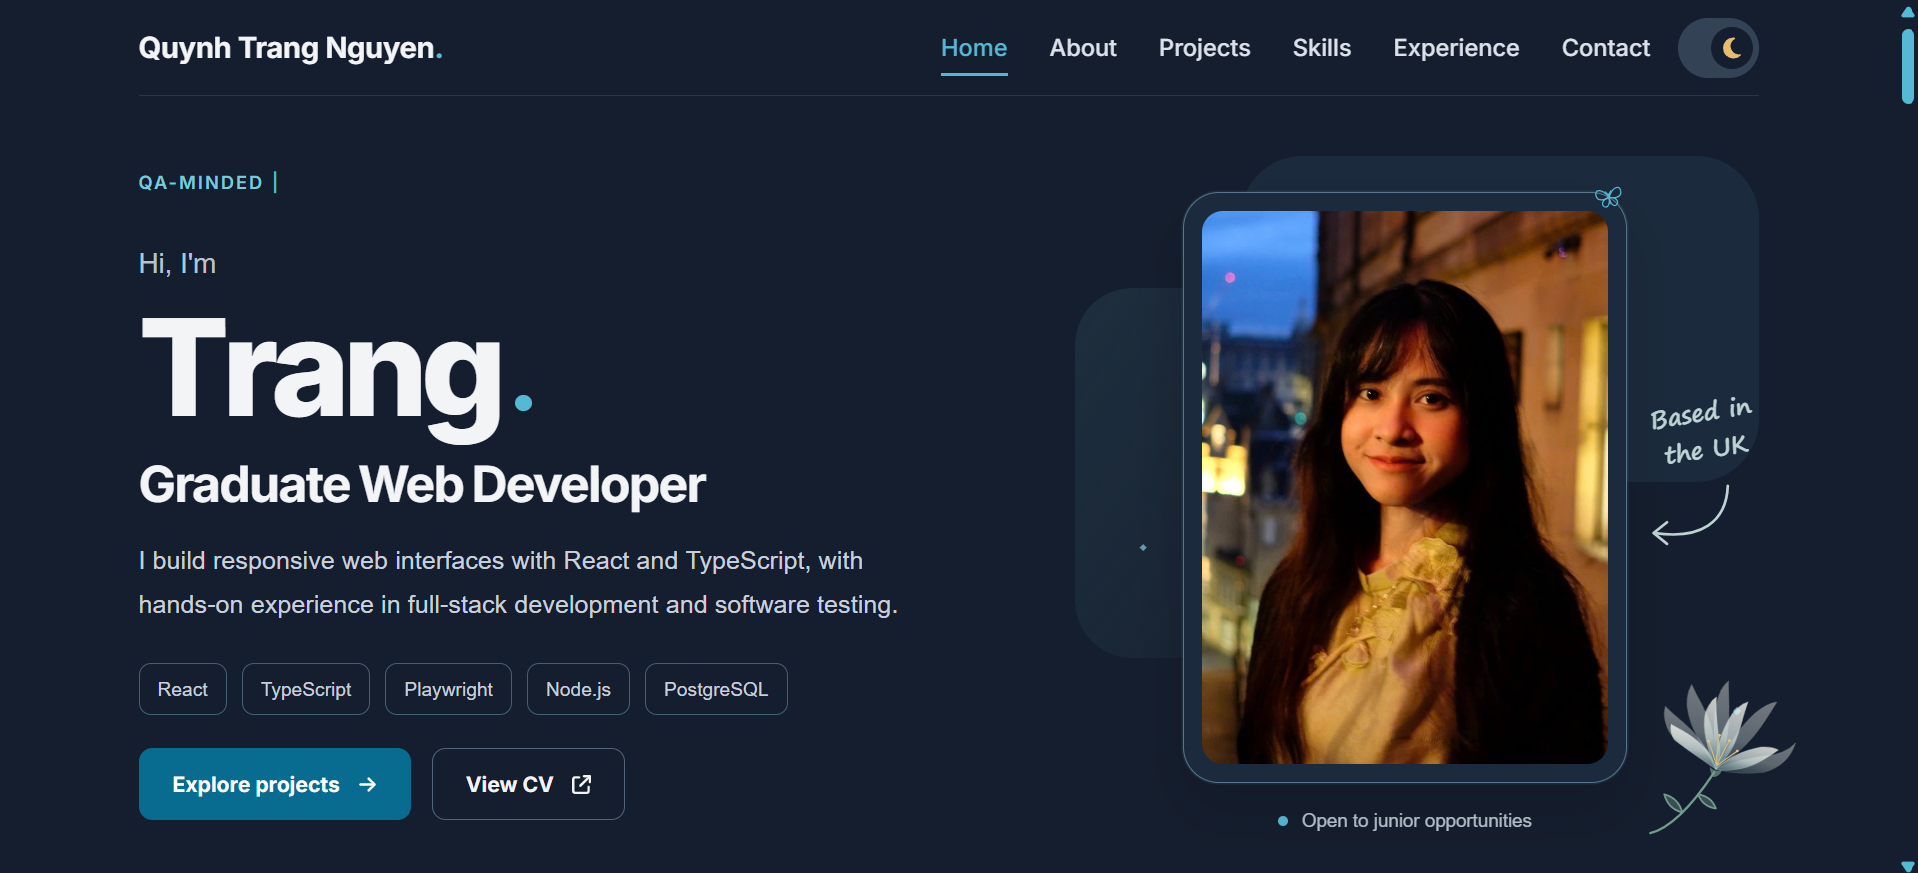
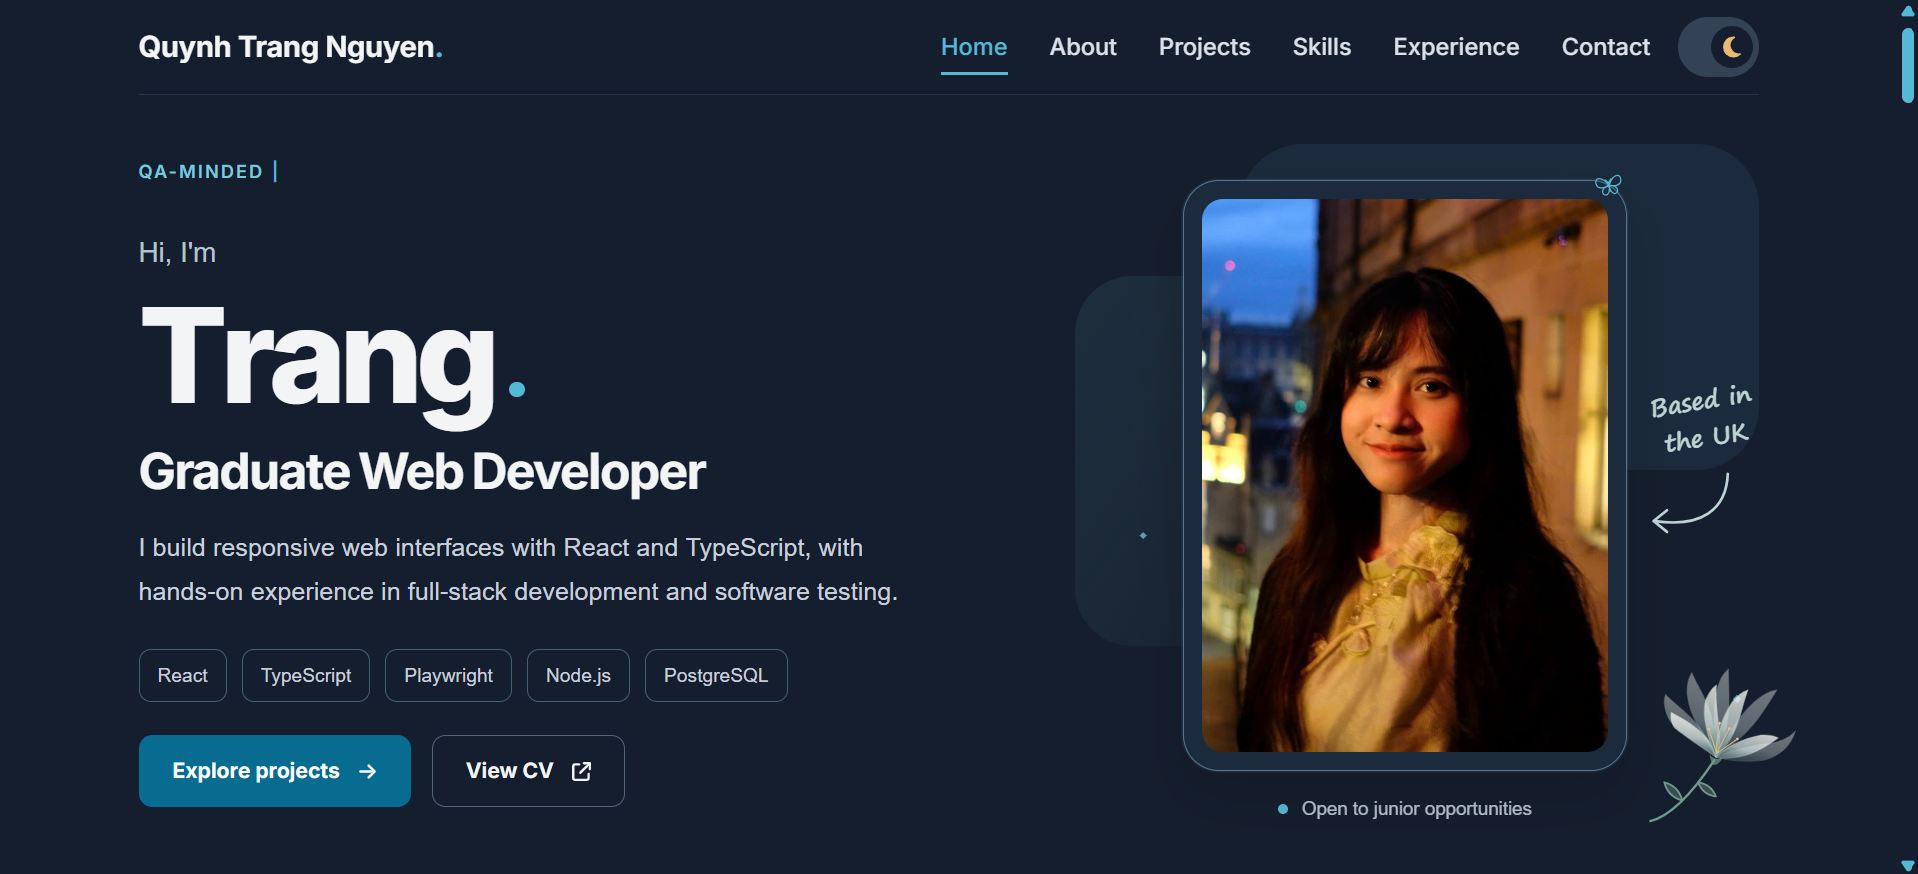
feat: enhance project image previews and literary note

diff --git a/src/components/LiteraryNote.css b/src/components/LiteraryNote.css
@@ -1,5 +1,5 @@
-/* Literary note — restrained paper finish and soft shadow. */
 .literary-note {
+  position: relative;
   box-sizing: border-box;
   width: min(100%, 270px);
   margin: 0;
@@ -16,9 +16,32 @@
   transform: rotate(1deg);
 }
 
+.literary-note__fold {
+  position: absolute;
+  top: 0;
+  right: 0;
+  display: grid;
+  place-items: center;
+  width: 36px;
+  height: 36px;
+  padding: 0 0 9px 9px;
+  border: 0;
+  border-bottom-left-radius: 6px;
+  background: linear-gradient(225deg, #e3d097 49%, #c9b782 50%, #f2e4ad 53%);
+  color: #62543d;
+  font: 600 15px/1 Georgia, serif;
+  cursor: pointer;
+}
+
+.literary-note__fold:focus-visible {
+  outline: 2px solid #665943;
+  outline-offset: 3px;
+}
+
 .literary-note__eyebrow {
   display: block;
   margin-bottom: 20px;
+  padding-right: 15px;
   color: #75664c;
   font-size: 0.65rem;
   font-weight: 600;
@@ -51,15 +74,41 @@
 
 .literary-note__source cite { font-style: italic; }
 
+.literary-note__reveal {
+  margin-top: 16px;
+  padding-top: 15px;
+  border-top: 1px dashed rgb(91 76 48 / 28%);
+}
+
+.literary-note__reveal[hidden] { display: none; }
+
+.literary-note__reveal-label {
+  display: block;
+  margin-bottom: 8px;
+  color: #75664c;
+  font-size: 0.59rem;
+  font-weight: 600;
+  letter-spacing: 0.13em;
+}
+
+.literary-note__reveal p {
+  margin: 0;
+  font-family: Georgia, 'Times New Roman', serif;
+  font-size: 0.92rem;
+  font-style: italic;
+  line-height: 1.5;
+}
+
 @media (prefers-reduced-motion: no-preference) {
   .literary-note {
     transition: transform 220ms ease, box-shadow 220ms ease;
   }
-  .literary-note:hover {
+
+  .literary-note:hover,
+  .literary-note--open {
     transform: rotate(0deg) translateY(-2px);
     box-shadow:
       0 3px 7px rgb(40 35 25 / 9%),
       0 10px 20px rgb(40 35 25 / 13%);
   }
 }
-

diff --git a/src/components/LiteraryNote.jsx b/src/components/LiteraryNote.jsx
@@ -1,22 +1,40 @@
+import { useId, useState } from 'react'
 import './LiteraryNote.css'
 
 function LiteraryNote() {
+  const [isOpen, setIsOpen] = useState(false)
+  const noteId = useId()
+
   return (
-    <figure className="literary-note">
-      <span className="literary-note__eyebrow">
-        IN THE MARGINS
-      </span>
+    <figure className={`literary-note${isOpen ? ' literary-note--open' : ''}`}>
+      <button
+        className="literary-note__fold"
+        type="button"
+        aria-label={isOpen ? 'Fold the note' : 'Unfold the note'}
+        aria-expanded={isOpen}
+        aria-controls={noteId}
+        onClick={() => setIsOpen((open) => !open)}
+      >
+        <span aria-hidden="true">{isOpen ? '−' : '+'}</span>
+      </button>
+
+      <span className="literary-note__eyebrow">IN THE MARGINS</span>
 
       <blockquote className="literary-note__quote">
         <p>
-          What do we live for, if it is not to make
-          life less difficult to each other?
+          “What do we live for, if it is not to make
+          life less difficult to each other?”
         </p>
       </blockquote>
 
       <figcaption className="literary-note__source">
         George Eliot · <cite>Middlemarch</cite>
       </figcaption>
+
+      <div className="literary-note__reveal" id={noteId} hidden={!isOpen}>
+        <span className="literary-note__reveal-label">JUST A THOUGHT</span>
+        <p>Perhaps the best details are the ones that make someone feel understood.</p>
+      </div>
     </figure>
   )
 }

diff --git a/src/pages/HealthcareProject.jsx b/src/pages/HealthcareProject.jsx
@@ -126,10 +126,20 @@ function HealthcareProject() {
         </div>
         {/* Hero image */}
         <div className="case-hero-image">
-          <img
-            src={healthcareImage}
-            alt="Healthcare Booking System homepage shown on desktop and mobile layouts"
-          />
+          <button
+            type="button"
+            className="solution-image-button"
+            onClick={() => openImage(healthcareImage, 'Healthcare Booking System homepage shown on desktop and mobile layouts')}
+            aria-label="Enlarge Healthcare Booking System homepage preview"
+          >
+            <img
+              src={healthcareImage}
+              alt="Healthcare Booking System homepage shown on desktop and mobile layouts"
+            />
+            <span className="solution-image-zoom">
+              <FaMagnifyingGlassPlus aria-hidden="true" />
+            </span>
+          </button>
         </div>
       </section>
       <ProjectSectionNav items={sectionNavItems} />

diff --git a/src/App.css b/src/App.css
@@ -812,7 +812,7 @@ h3 {
 .hero-intro-name {
   margin: 0 0 14px;
   color: var(--color-text-primary);
-  font-size: clamp(3.8rem, 7vw, 6rem);
+  font-size: clamp(3.8rem, 7vw, 5.5rem);
   font-weight: 800;
   line-height: 1.02;
   letter-spacing: -0.055em;
@@ -1171,12 +1171,32 @@ h3 {
     margin-inline: auto;
   }
 
+  .hero-intro-technologies {
+    flex-wrap: nowrap;
+    justify-content: space-between;
+    gap: 4px;
+    width: 100%;
+  }
+
+  .hero-intro-technologies li {
+    min-width: 0;
+    padding: 6px 5px;
+    font-size: clamp(0.55rem, 2.3vw, 0.7rem);
+    white-space: nowrap;
+  }
+
+  .hero-intro-location,
+  .hero-intro-availability {
+    width: calc(100% + 20px);
+    margin-left: 0;
+  }
+
   .hero-intro-portrait {
     width: 100%;
   }
 
   .hero-intro-name {
-    font-size: clamp(3.6rem, 15vw, 5rem);
+    font-size: clamp(3.4rem, 14vw, 4.6rem);
   }
 
   .hero-intro-summary {
